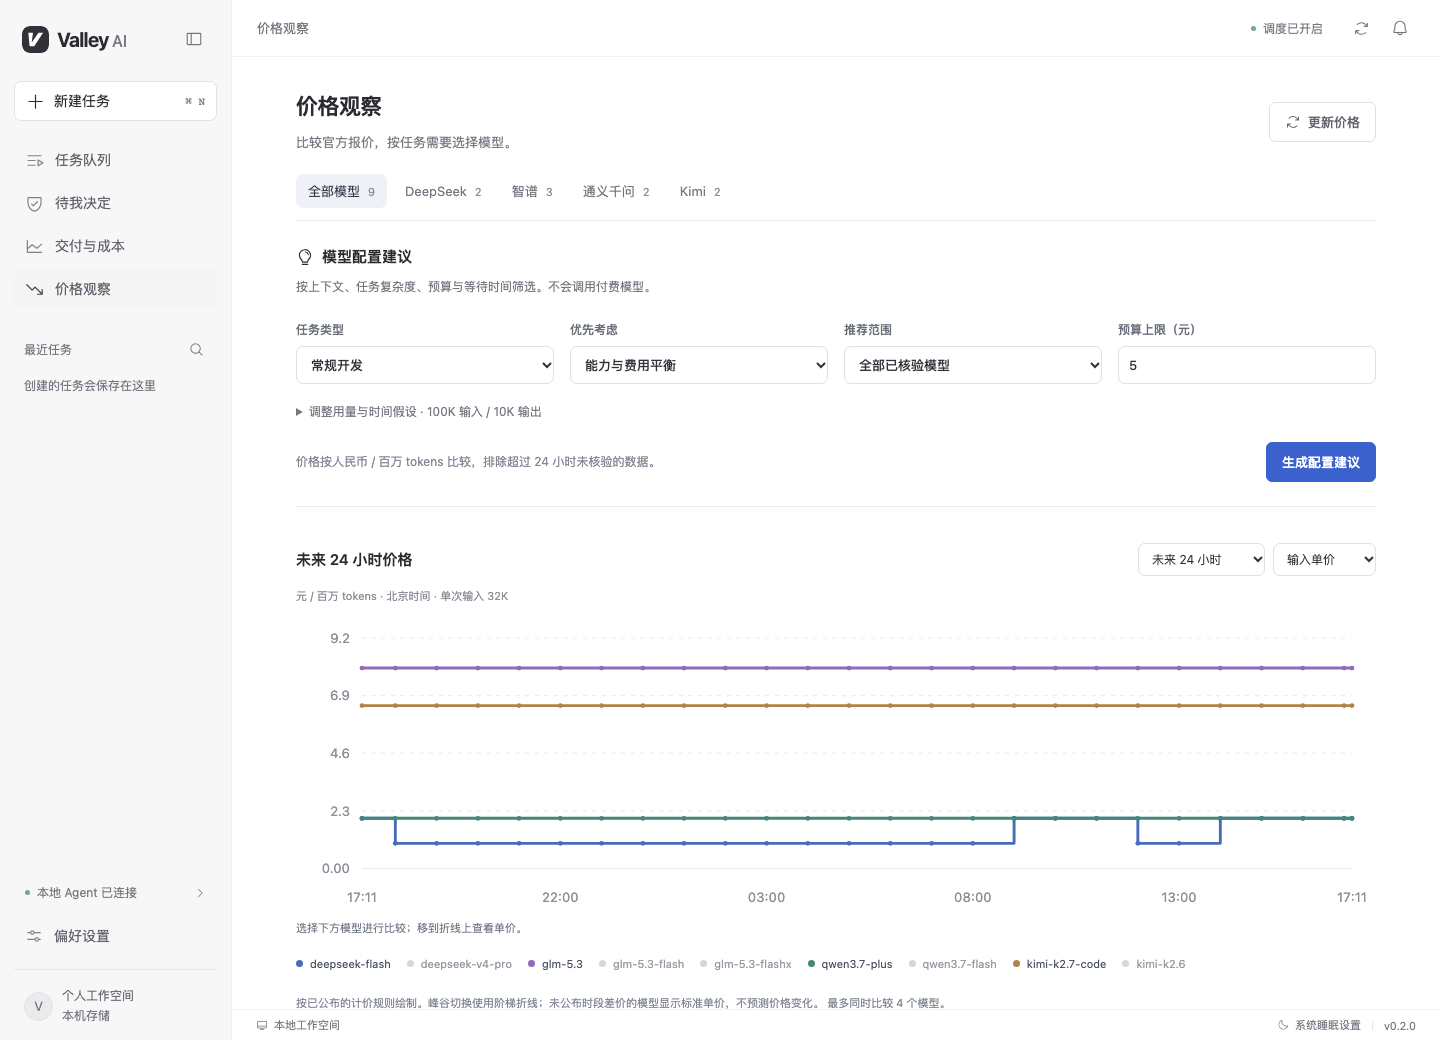
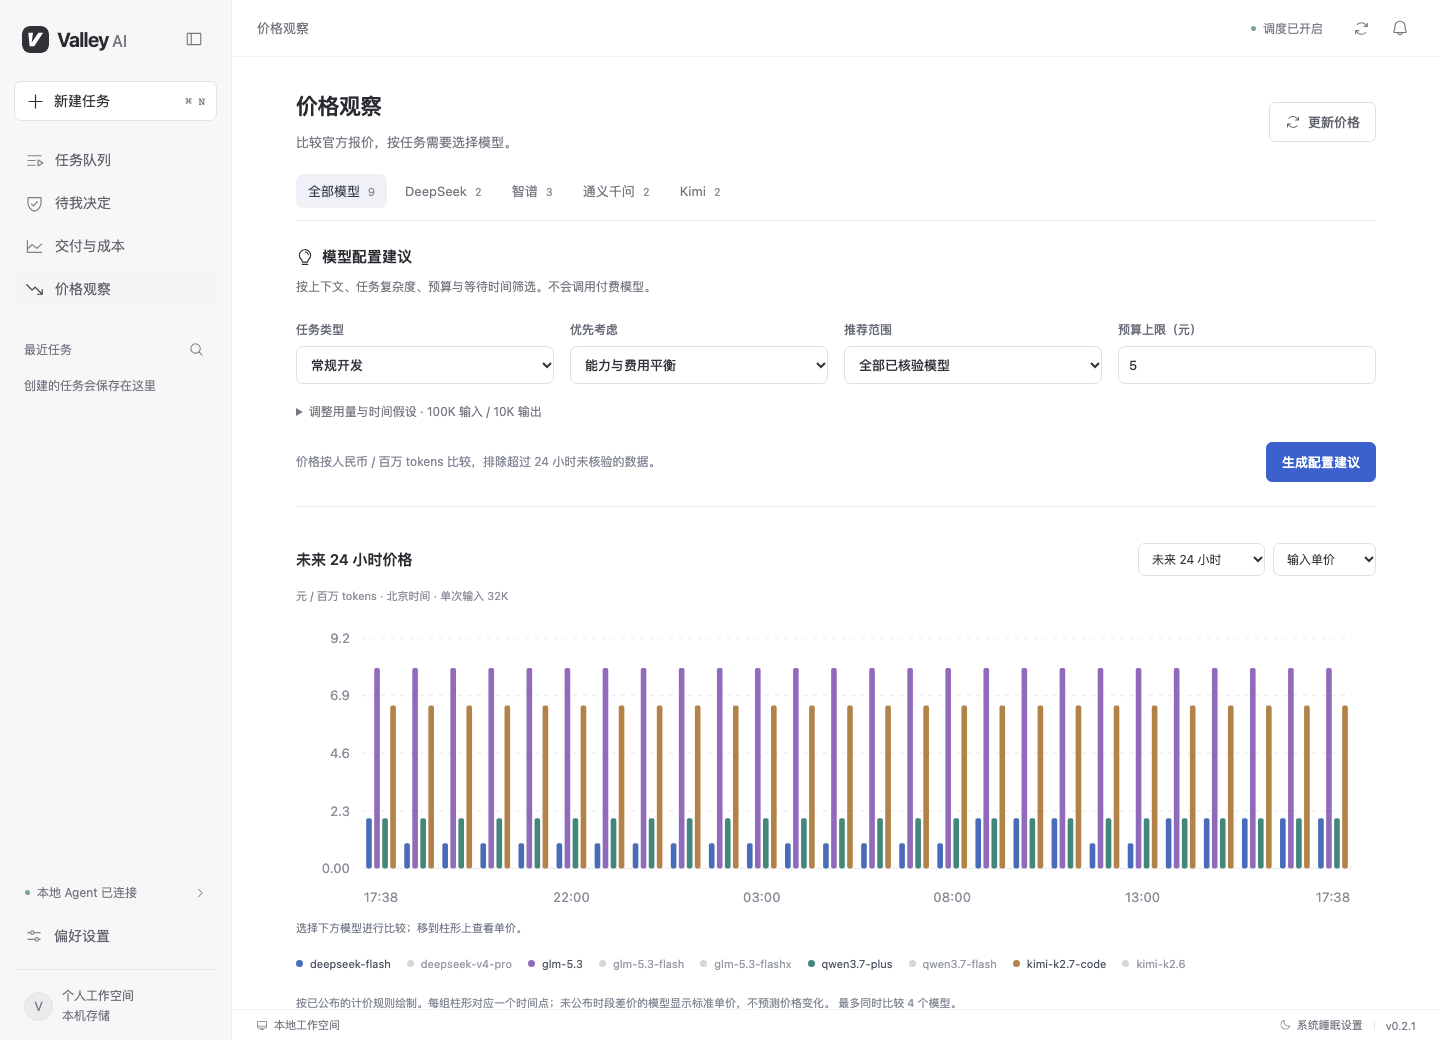
Show grouped price bars and prepare 0.2.1 downloads

Changed region(s): [[0.25, 0.6154, 0.9375, 0.8615], [0.3125, 0.9538, 0.6562, 0.9846], [0.875, 0.9846, 0.9688, 1.0]]

diff --git a/index.html b/index.html
@@ -1,16 +1,16 @@
 <!doctype html>
 <html lang="zh-CN">
-<head><meta charset="utf-8"><meta name="viewport" content="width=device-width,initial-scale=1"><title>Valley AI — 先规划，再交给后台</title><meta name="description" content="面向编程 Agent 的桌面任务调度工具。预演计划、选择执行时段、处理审批，再查看代码变更和成本报告。适用于 macOS 与 Windows。"><meta name="theme-color" content="#f9f9f7"><meta property="og:title" content="Valley AI — 先规划，再交给后台"><meta property="og:description" content="为长任务留出时间。macOS 与 Windows 桌面应用。"><meta property="og:type" content="website"><link rel="icon" href="assets/icon.svg?v=0.2.0" type="image/svg+xml"><link rel="stylesheet" href="style.css?v=0.2.0"></head>
+<head><meta charset="utf-8"><meta name="viewport" content="width=device-width,initial-scale=1"><title>Valley AI — 先规划，再交给后台</title><meta name="description" content="面向编程 Agent 的桌面任务调度工具。预演计划、选择执行时段、处理审批，再查看代码变更和成本报告。适用于 macOS 与 Windows。"><meta name="theme-color" content="#f9f9f7"><meta property="og:title" content="Valley AI — 先规划，再交给后台"><meta property="og:description" content="为长任务留出时间。macOS 与 Windows 桌面应用。"><meta property="og:type" content="website"><link rel="icon" href="assets/icon.svg?v=0.2.1" type="image/svg+xml"><link rel="stylesheet" href="style.css?v=0.2.1"></head>
 <body>
 <a class="skip" href="#main">跳到正文</a>
-<header class="site-header"><a class="wordmark" href="#" aria-label="Valley AI 首页"><img class="mark" src="assets/icon.svg?v=0.2.0" alt="">Valley <span>AI</span></a><nav aria-label="导航"><a href="#workspace">工作方式</a><a href="#features">功能</a><a href="#download" class="nav-download">下载应用 <span aria-hidden="true">↗</span></a></nav></header>
+<header class="site-header"><a class="wordmark" href="#" aria-label="Valley AI 首页"><img class="mark" src="assets/icon.svg?v=0.2.1" alt="">Valley <span>AI</span></a><nav aria-label="导航"><a href="#workspace">工作方式</a><a href="#features">功能</a><a href="#download" class="nav-download">下载应用 <span aria-hidden="true">↗</span></a></nav></header>
 <main id="main">
 <section class="hero wrap"><div class="hero-copy"><div class="release-label">为编程 Agent 安排时间</div><h1>白天定好计划。<br><span>把进展留给后台。</span></h1><div class="hero-intro"><p>Valley AI 帮你安排编程 Agent 的长任务。<br>先预演，再确认执行时段，回来查看可验收的结果。</p><div class="hero-actions"><a class="button dark" href="#download">下载应用 <span aria-hidden="true">↓</span></a><a class="quiet-link" href="#workspace">看看它如何工作 <span aria-hidden="true">↗</span></a></div></div></div></section>
-<section id="workspace" class="workspace wrap"><div class="preview-head"><span>一个安静的工作区</span><span>macOS 与 Windows</span></div><div class="app-frame"><div class="window-bar"><div class="window-dots"><i></i><i></i><i></i></div><span>Valley AI</span><span class="window-type">macOS 预览版</span></div><img src="assets/workspace.png?v=0.2.0" alt="Valley AI 实际界面：左侧任务导航，中央任务输入区与最近任务列表" width="1440" height="1040" fetchpriority="high"></div><div class="preview-caption"><p>描述任务，选择项目。<br><strong>从一个具体的需求开始。</strong></p><p>你可以继续补充要求、调整计划。<br>确认任务包以后，Agent 才会开始修改代码。</p></div></section>
+<section id="workspace" class="workspace wrap"><div class="preview-head"><span>一个安静的工作区</span><span>macOS 与 Windows</span></div><div class="app-frame"><div class="window-bar"><div class="window-dots"><i></i><i></i><i></i></div><span>Valley AI</span><span class="window-type">macOS 预览版</span></div><img src="assets/workspace.png?v=0.2.1" alt="Valley AI 实际界面：左侧任务导航，中央任务输入区与最近任务列表" width="1440" height="1040" fetchpriority="high"></div><div class="preview-caption"><p>描述任务，选择项目。<br><strong>从一个具体的需求开始。</strong></p><p>你可以继续补充要求、调整计划。<br>确认任务包以后，Agent 才会开始修改代码。</p></div></section>
 <section id="features" class="features wrap"><div class="section-heading"><h2>少一点跟进。<br>每一步仍然看得清。</h2></div><div class="feature-rows"><article><div><h3>先把任务想清楚</h3><p>把对话整理成执行步骤、验收标准和风险。继续讨论，直到计划符合预期。</p></div><span class="feature-tag">任务预演</span></article><article><div><h3>让执行时间有依据</h3><p>结合优先级、截止时间、模型单价和电力成本安排队列。每 30 分钟核验多家模型的官方报价。</p></div><span class="feature-tag">成本调度</span></article><article><div><h3>该交给你决定时，就停下来</h3><p>命令权限与未确认的问题进入审批。预先确认且文字完全匹配的问题，可以自动回复。</p></div><span class="feature-tag">交互托管</span></article><article><div><h3>结果回到你的电脑</h3><p>在独立工作目录执行，保留变更和真实命令记录。完成后查看结果、用量与成本估算。</p></div><span class="feature-tag">本地交付</span></article></div></section>
-<section class="price-story wrap"><div class="price-copy"><span class="overline">多模型价格观察</span><h2>选对模型，<br>也选好时间。</h2><p>DeepSeek、智谱、通义千问和 Kimi，用折线比较官方单价。按任务复杂度、用量、预算与可等待时间，生成有依据的模型配置建议。</p><p class="fine-print">DeepSeek 支持直接执行；其他模型目前用于选型参考。费用按预计用量比较，实际收费以服务商账单为准。</p><a class="quiet-link" href="https://api-docs.deepseek.com/zh-cn/quick_start/pricing/" target="_blank" rel="noopener noreferrer">查看 DeepSeek 官方定价 <span>↗</span></a></div><div class="price-preview"><img src="assets/prices.png?v=0.2.0" alt="Valley AI 实际价格观察页面，显示四家模型筛选、配置建议与未来 24 小时价格折线图" width="1440" height="1040" loading="eager"><p>来自应用的实际截图 · 价格会随官方更新</p></div></section>
+<section class="price-story wrap"><div class="price-copy"><span class="overline">多模型价格观察</span><h2>选对模型，<br>也选好时间。</h2><p>DeepSeek、智谱、通义千问和 Kimi，用柱状图比较官方单价。按任务复杂度、用量、预算与可等待时间，生成有依据的模型配置建议。</p><p class="fine-print">DeepSeek 支持直接执行；其他模型目前用于选型参考。费用按预计用量比较，实际收费以服务商账单为准。</p><a class="quiet-link" href="https://api-docs.deepseek.com/zh-cn/quick_start/pricing/" target="_blank" rel="noopener noreferrer">查看 DeepSeek 官方定价 <span>↗</span></a></div><div class="price-preview"><img src="assets/prices.png?v=0.2.1" alt="Valley AI 实际价格观察页面，显示四家模型筛选、配置建议与未来 24 小时价格柱状图" width="1440" height="1040" loading="eager"><p>来自应用的实际截图 · 价格会随官方更新</p></div></section>
 <section class="guard wrap"><div><h2>锁住屏幕，<br>后台继续工作。</h2><p>任务期间阻止电脑空闲睡眠，允许屏幕关闭；使用系统锁屏保护桌面。任务进展和需要处理的请求都保留在应用里。</p><p class="fine-print">请接通电源并保持应用运行。合盖、手动睡眠、关机与系统更新仍可能中断任务。</p></div></section>
-<section id="download" class="download wrap"><div class="download-intro"><h2>让下一项任务，<br>有自己的时间。</h2><p>Valley AI <span id="version">0.2.0</span> · 桌面预览版</p></div><div class="download-options"><article><div class="os-icon os-apple" aria-hidden="true"><svg xmlns="http://www.w3.org/2000/svg" viewBox="0 0 384 512" fill="currentColor"><!-- Font Awesome Free 7.3.1 by Fonticons, Inc. | CC BY 4.0 | https://fontawesome.com/license/free --><path d="M319.1 268.7c-.2-36.7 16.4-64.4 50-84.8-18.8-26.9-47.2-41.7-84.7-44.6-35.5-2.8-74.3 20.7-88.5 20.7-15 0-49.4-19.7-76.4-19.7-55.8 .9-115.1 44.5-115.1 133.2 0 26.2 4.8 53.3 14.4 81.2 12.8 36.7 59 126.7 107.2 125.2 25.2-.6 43-17.9 75.8-17.9 31.8 0 48.3 17.9 76.4 17.9 48.6-.7 90.4-82.5 102.6-119.3-65.2-30.7-61.7-90-61.7-91.9zM262.5 104.5c27.3-32.4 24.8-61.9 24-72.5-24.1 1.4-52 16.4-67.9 34.9-17.5 19.8-27.8 44.3-25.6 71.9 26.1 2 49.9-11.4 69.5-34.3z"/></svg></div><div><h3>macOS</h3><p>Apple Silicon · macOS 12 及以上</p><small id="mac-info">安装包准备中</small></div><a id="mac-download" class="button download-button disabled" aria-disabled="true">准备中 <span>↓</span></a></article><article><div class="os-icon os-windows" aria-hidden="true"><svg xmlns="http://www.w3.org/2000/svg" viewBox="0 0 448 512" fill="currentColor"><!-- Font Awesome Free 7.3.1 by Fonticons, Inc. | CC BY 4.0 | https://fontawesome.com/license/free --><path d="M0 93.7l183.6-25.3 0 177.4-183.6 0 0-152.1zM0 418.3l183.6 25.3 0-175.2-183.6 0 0 149.9zm203.8 28l244.2 33.7 0-211.6-244.2 0 0 177.9zm0-380.6l0 180.1 244.2 0 0-213.8-244.2 33.7z"/></svg></div><div><h3>Windows</h3><p>64 位 · Windows 10 / 11</p><small id="windows-info">安装包构建中</small></div><a id="windows-download" class="button download-button disabled" aria-disabled="true">构建中 <span>↓</span></a></article><div class="download-notes"><p>当前为未经平台认证的测试版。Mac 为 Apple 芯片版本；Intel Mac 暂未提供安装包。</p><p>真实任务需要 <a href="https://developers.openai.com/codex/cli" target="_blank" rel="noopener noreferrer">Codex CLI</a>、<a href="https://git-scm.com/downloads" target="_blank" rel="noopener noreferrer">Git</a> 和你自己的模型 API Key。手机端与云端执行尚未开放。</p><a id="release-link" href="https://github.com/CaliBG/valley-ai/releases" target="_blank" rel="noopener noreferrer">版本记录与文件校验 <span>↗</span></a></div></div></section>
+<section id="download" class="download wrap"><div class="download-intro"><h2>让下一项任务，<br>有自己的时间。</h2><p>Valley AI <span id="version">0.2.1</span> · 桌面预览版</p></div><div class="download-options"><article><div class="os-icon os-apple" aria-hidden="true"><svg xmlns="http://www.w3.org/2000/svg" viewBox="0 0 384 512" fill="currentColor"><!-- Font Awesome Free 7.3.1 by Fonticons, Inc. | CC BY 4.0 | https://fontawesome.com/license/free --><path d="M319.1 268.7c-.2-36.7 16.4-64.4 50-84.8-18.8-26.9-47.2-41.7-84.7-44.6-35.5-2.8-74.3 20.7-88.5 20.7-15 0-49.4-19.7-76.4-19.7-55.8 .9-115.1 44.5-115.1 133.2 0 26.2 4.8 53.3 14.4 81.2 12.8 36.7 59 126.7 107.2 125.2 25.2-.6 43-17.9 75.8-17.9 31.8 0 48.3 17.9 76.4 17.9 48.6-.7 90.4-82.5 102.6-119.3-65.2-30.7-61.7-90-61.7-91.9zM262.5 104.5c27.3-32.4 24.8-61.9 24-72.5-24.1 1.4-52 16.4-67.9 34.9-17.5 19.8-27.8 44.3-25.6 71.9 26.1 2 49.9-11.4 69.5-34.3z"/></svg></div><div><h3>macOS</h3><p>Apple Silicon · macOS 12 及以上</p><small id="mac-info">安装包准备中</small></div><a id="mac-download" class="button download-button disabled" aria-disabled="true">准备中 <span>↓</span></a></article><article><div class="os-icon os-windows" aria-hidden="true"><svg xmlns="http://www.w3.org/2000/svg" viewBox="0 0 448 512" fill="currentColor"><!-- Font Awesome Free 7.3.1 by Fonticons, Inc. | CC BY 4.0 | https://fontawesome.com/license/free --><path d="M0 93.7l183.6-25.3 0 177.4-183.6 0 0-152.1zM0 418.3l183.6 25.3 0-175.2-183.6 0 0 149.9zm203.8 28l244.2 33.7 0-211.6-244.2 0 0 177.9zm0-380.6l0 180.1 244.2 0 0-213.8-244.2 33.7z"/></svg></div><div><h3>Windows</h3><p>64 位 · Windows 10 / 11</p><small id="windows-info">安装包构建中</small></div><a id="windows-download" class="button download-button disabled" aria-disabled="true">构建中 <span>↓</span></a></article><div class="download-notes"><p>当前为未经平台认证的测试版。Mac 为 Apple 芯片版本；Intel Mac 暂未提供安装包。</p><p>真实任务需要 <a href="https://developers.openai.com/codex/cli" target="_blank" rel="noopener noreferrer">Codex CLI</a>、<a href="https://git-scm.com/downloads" target="_blank" rel="noopener noreferrer">Git</a> 和你自己的模型 API Key。手机端与云端执行尚未开放。</p><a id="release-link" href="https://github.com/CaliBG/valley-ai/releases" target="_blank" rel="noopener noreferrer">版本记录与文件校验 <span>↗</span></a></div></div></section>
 <section class="getting-started wrap"><h2>安装后，三步开始。</h2><ol><li><span>1</span><div><h3>连接执行环境</h3><p>在偏好设置中选择 Codex CLI，配置 DeepSeek Key。密钥保存到系统凭据库。</p></div></li><li><span>2</span><div><h3>选项目，说需求</h3><p>选择已提交且没有未提交修改的 Git 仓库，输入任务并生成计划。</p></div></li><li><span>3</span><div><h3>确认，再执行</h3><p>检查计划、时限和预算。任务完成后，在交付页查看结果并验收。</p></div></li></ol></section>
-</main><footer class="site-footer wrap"><a class="wordmark" href="#"><img class="mark" src="assets/icon.svg?v=0.2.0" alt="">Valley <span>AI</span></a><span>先规划，再交给后台。</span><a href="https://github.com/CaliBG/valley-ai/issues" target="_blank" rel="noopener noreferrer">反馈问题 ↗</a><small>© 2026 Valley AI</small></footer><script src="site.js?v=0.2.0"></script>
+</main><footer class="site-footer wrap"><a class="wordmark" href="#"><img class="mark" src="assets/icon.svg?v=0.2.1" alt="">Valley <span>AI</span></a><span>先规划，再交给后台。</span><a href="https://github.com/CaliBG/valley-ai/issues" target="_blank" rel="noopener noreferrer">反馈问题 ↗</a><small>© 2026 Valley AI</small></footer><script src="site.js?v=0.2.1"></script>
 </body></html>
